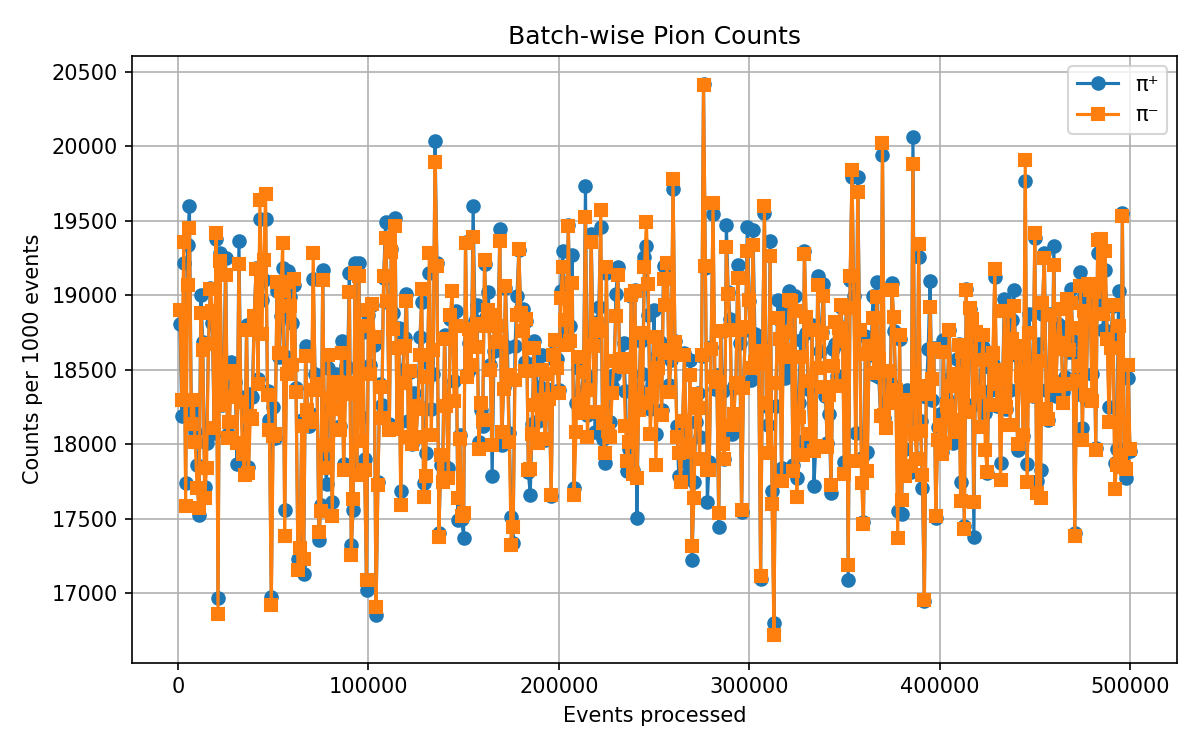
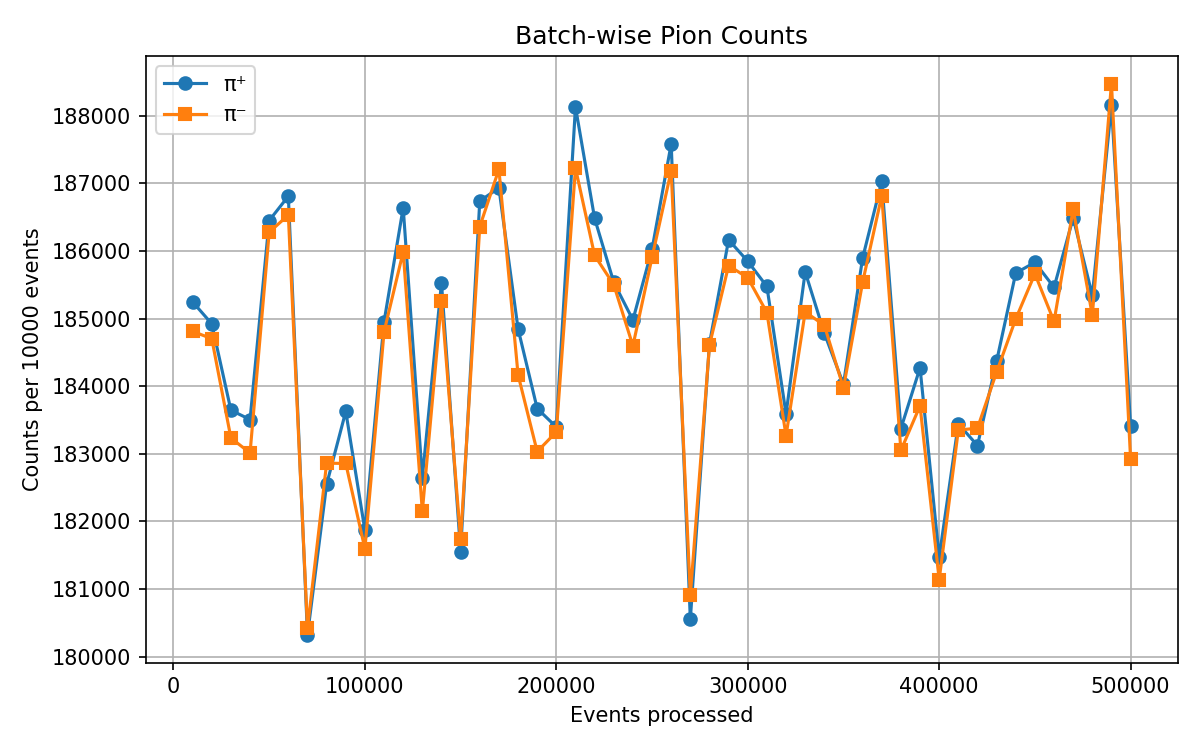
finished goal 2

diff --git a/Data_Science/goal2.py b/Data_Science/goal2.py
@@ -2,54 +2,33 @@ import math
 import matplotlib.pyplot as plt
 import numpy as np
 
-# Configuration
-sigma_threshold = 0.05    # significance threshold in σ units
-batch_size = 1000        # events per batch for plotting
+sigma_threshold = 0.05
+batch_size = 10000
 
 def check_type(pdg_code: int) -> int:
-    """
-    Return +1 for π⁺ (PDG 211), -1 for π⁻ (PDG -211), 0 otherwise.
-    """
     if pdg_code == 211:
         return 1
     elif pdg_code == -211:
         return -1
     return 0
 
-
 def poisson_uncertainty(count: float) -> float:
-    """
-    Poisson uncertainty: σ = √count
-    """
     return math.sqrt(count)
 
 
 def difference(no1: float, no2: float) -> float:
-    """
-    Absolute difference between two values.
-    """
     return abs(no1 - no2)
 
 
 def combined_uncertainty(sigma1: float, sigma2: float) -> float:
-    """
-    Combined uncertainty for independent measurements:
-    σ_comb = √(σ1² + σ2²)
-    """
     return math.hypot(sigma1, sigma2)
 
 
 def significance(diff: float, comb_unc: float) -> float:
-    """
-    Significance in σ: diff / comb_unc
-    """
     return diff / comb_unc if comb_unc > 0 else float('inf')
 
 
 def process_events(input_path: str):
-    """
-    Parse events file, tally π⁺/π⁻ counts, compute stats, and plot by batches.
-    """
     total_pos = total_neg = 0
     event_count = 0
 
